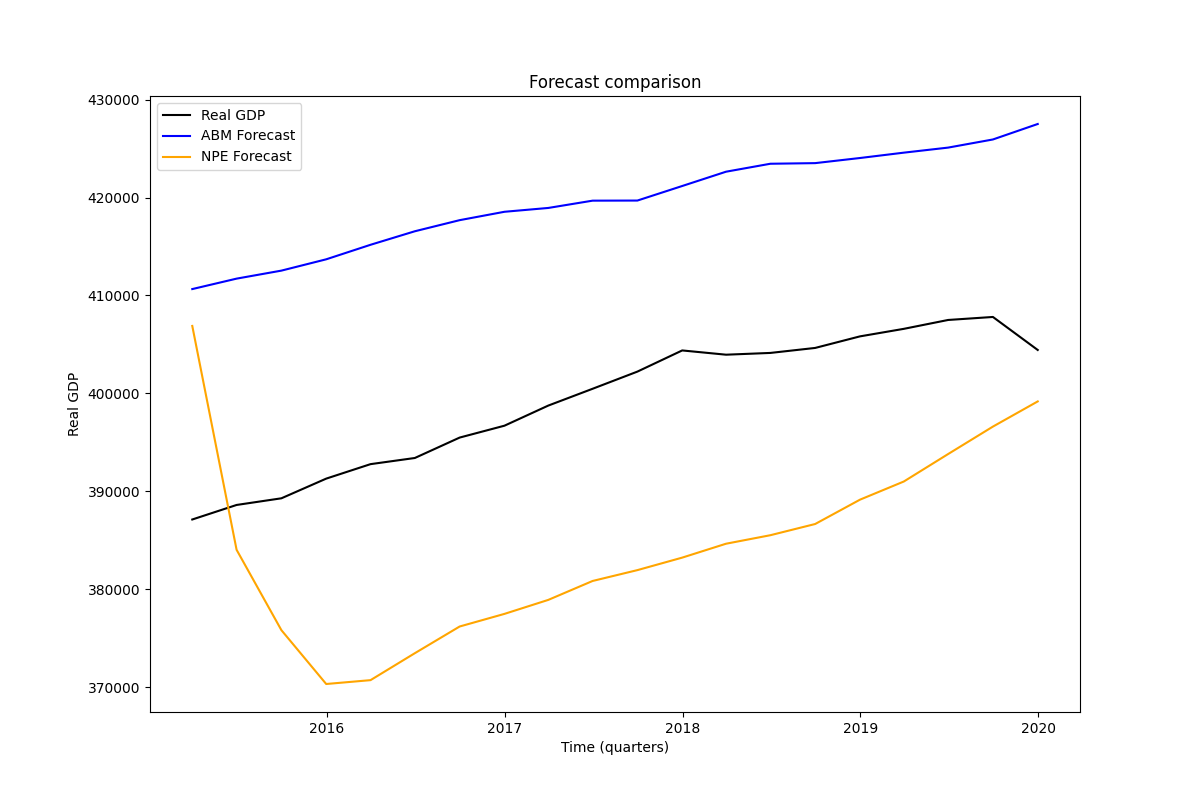
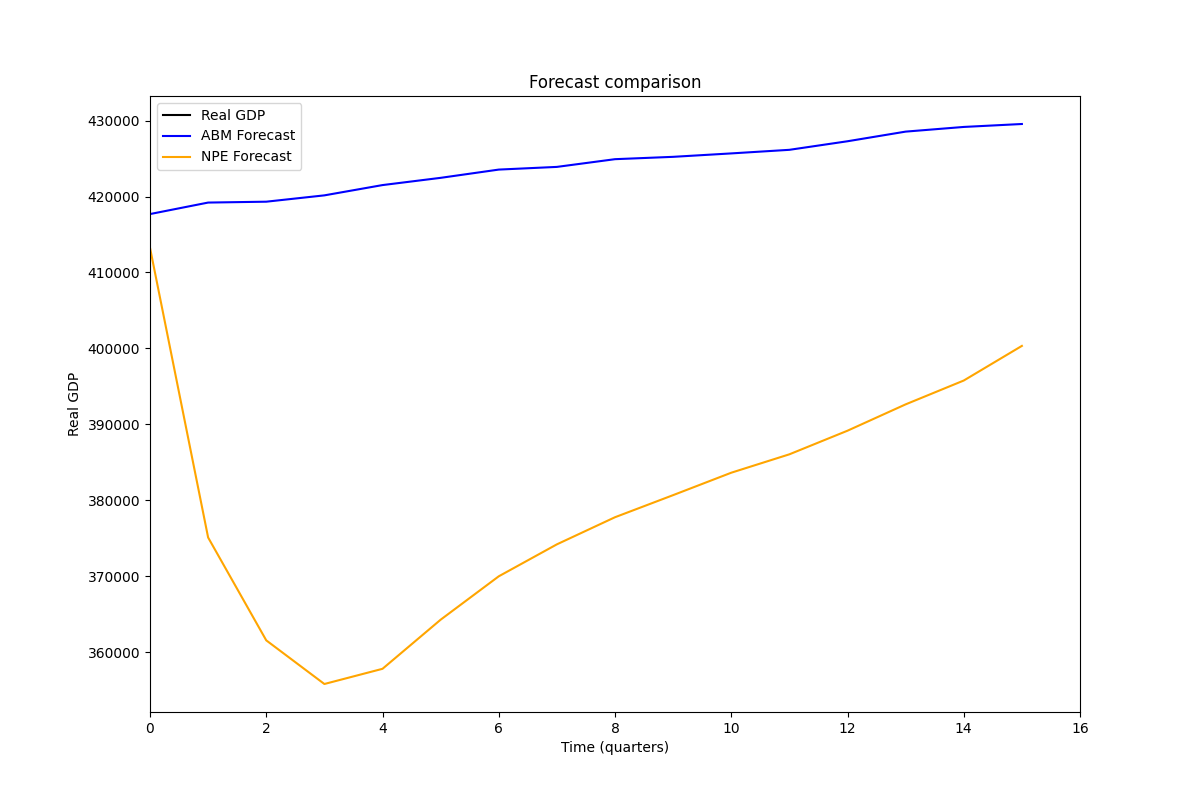
date fixes

diff --git a/generator.py b/generator.py
@@ -70,11 +70,11 @@ def compute_statistics (sim_out):
 ### initial calibration
 initial_calibration = datetime(2010, 3, 31)
 
-n = 5 # number of years to simulate
-T_hist = 4 * n # quaters
-final_calibration = datetime(initial_calibration.year + T_hist // 4, initial_calibration.month, initial_calibration.day)
+n = 6 # number of years to simulate -> 5 years
+T_hist = 4 * n - 1 # quaters
+final_calibration = datetime(initial_calibration.year + T_hist // 4, 12, initial_calibration.day)
 
-T_forecast = 4 * 5 # 5 years forecast
+T_forecast = 4 * 4 # 5 years forecast
 date_forecast = datetime(final_calibration.year + T_forecast // 4, final_calibration.month, final_calibration.day)
 ### real data
 csv_data = pd.read_csv("data/italy_real_gdp.csv", parse_dates=["observation_date"])
@@ -84,6 +84,7 @@ quarterly_dates, bit = [np.array(x) for x in jl.get_real()]
 n = len(quarterly_dates)
 df = pd.DataFrame({"date": quarterly_dates.flatten(), "real": bit.flatten()})
 df = df[df["date"] >= initial_calibration]
+df = df[df["date"] <= date_forecast]
 
 hist_params, hist_initial = jl.calibrate(initial_calibration.year, initial_calibration.month, initial_calibration.day)
 
@@ -152,13 +153,10 @@ npe.train()
 posterior = npe.build_posterior()
 print()
 
-observed_series = df[df["date"] < final_calibration]
-realized_future = df[df["date"] >= final_calibration]
+observed_series = df[df["date"] <= final_calibration]
+realized_future = df[df["date"] > final_calibration]
 
-print(observed_series.tail())
-print(realized_future.head())
-
-assert len(observed_series) == T_hist
+assert len(observed_series) == T_hist + 1
 assert len(realized_future) == T_forecast
 
 forecast_statistic = torch.tensor(compute_statistics(observed_series["real"].values))
@@ -222,9 +220,10 @@ print(f"RMSFE of ABM forecast: {RMSFE_abm}")
 print(f"RMSFE of NPE forecast: {RMSFE_npe}")
 
 plt.figure(figsize=(12, 8))
-plt.plot(realized_future["date"], realized_future["real"], label="Real GDP", color="black")
-plt.plot(realized_future["date"], abm_forecast, label="ABM Forecast", color="blue")
-plt.plot(realized_future["date"], npe_forecast, label="NPE Forecast", color="orange")
+plt.plot(range(1, T_forecast + 1), realized_future["real"], label="Real GDP", color="black")
+plt.plot(range(1, T_forecast + 1), abm_forecast, label="ABM Forecast", color="blue")
+plt.plot(range(1, T_forecast + 1), npe_forecast, label="NPE Forecast", color="orange")
+plt.xticks(range(1, T_forecast + 1), realized_future["date"].dt.strftime("%Y-%m").values, rotation=45)
 plt.title("Forecast comparison")
 plt.xlabel("Time (quarters)")
 plt.ylabel("Real GDP")
